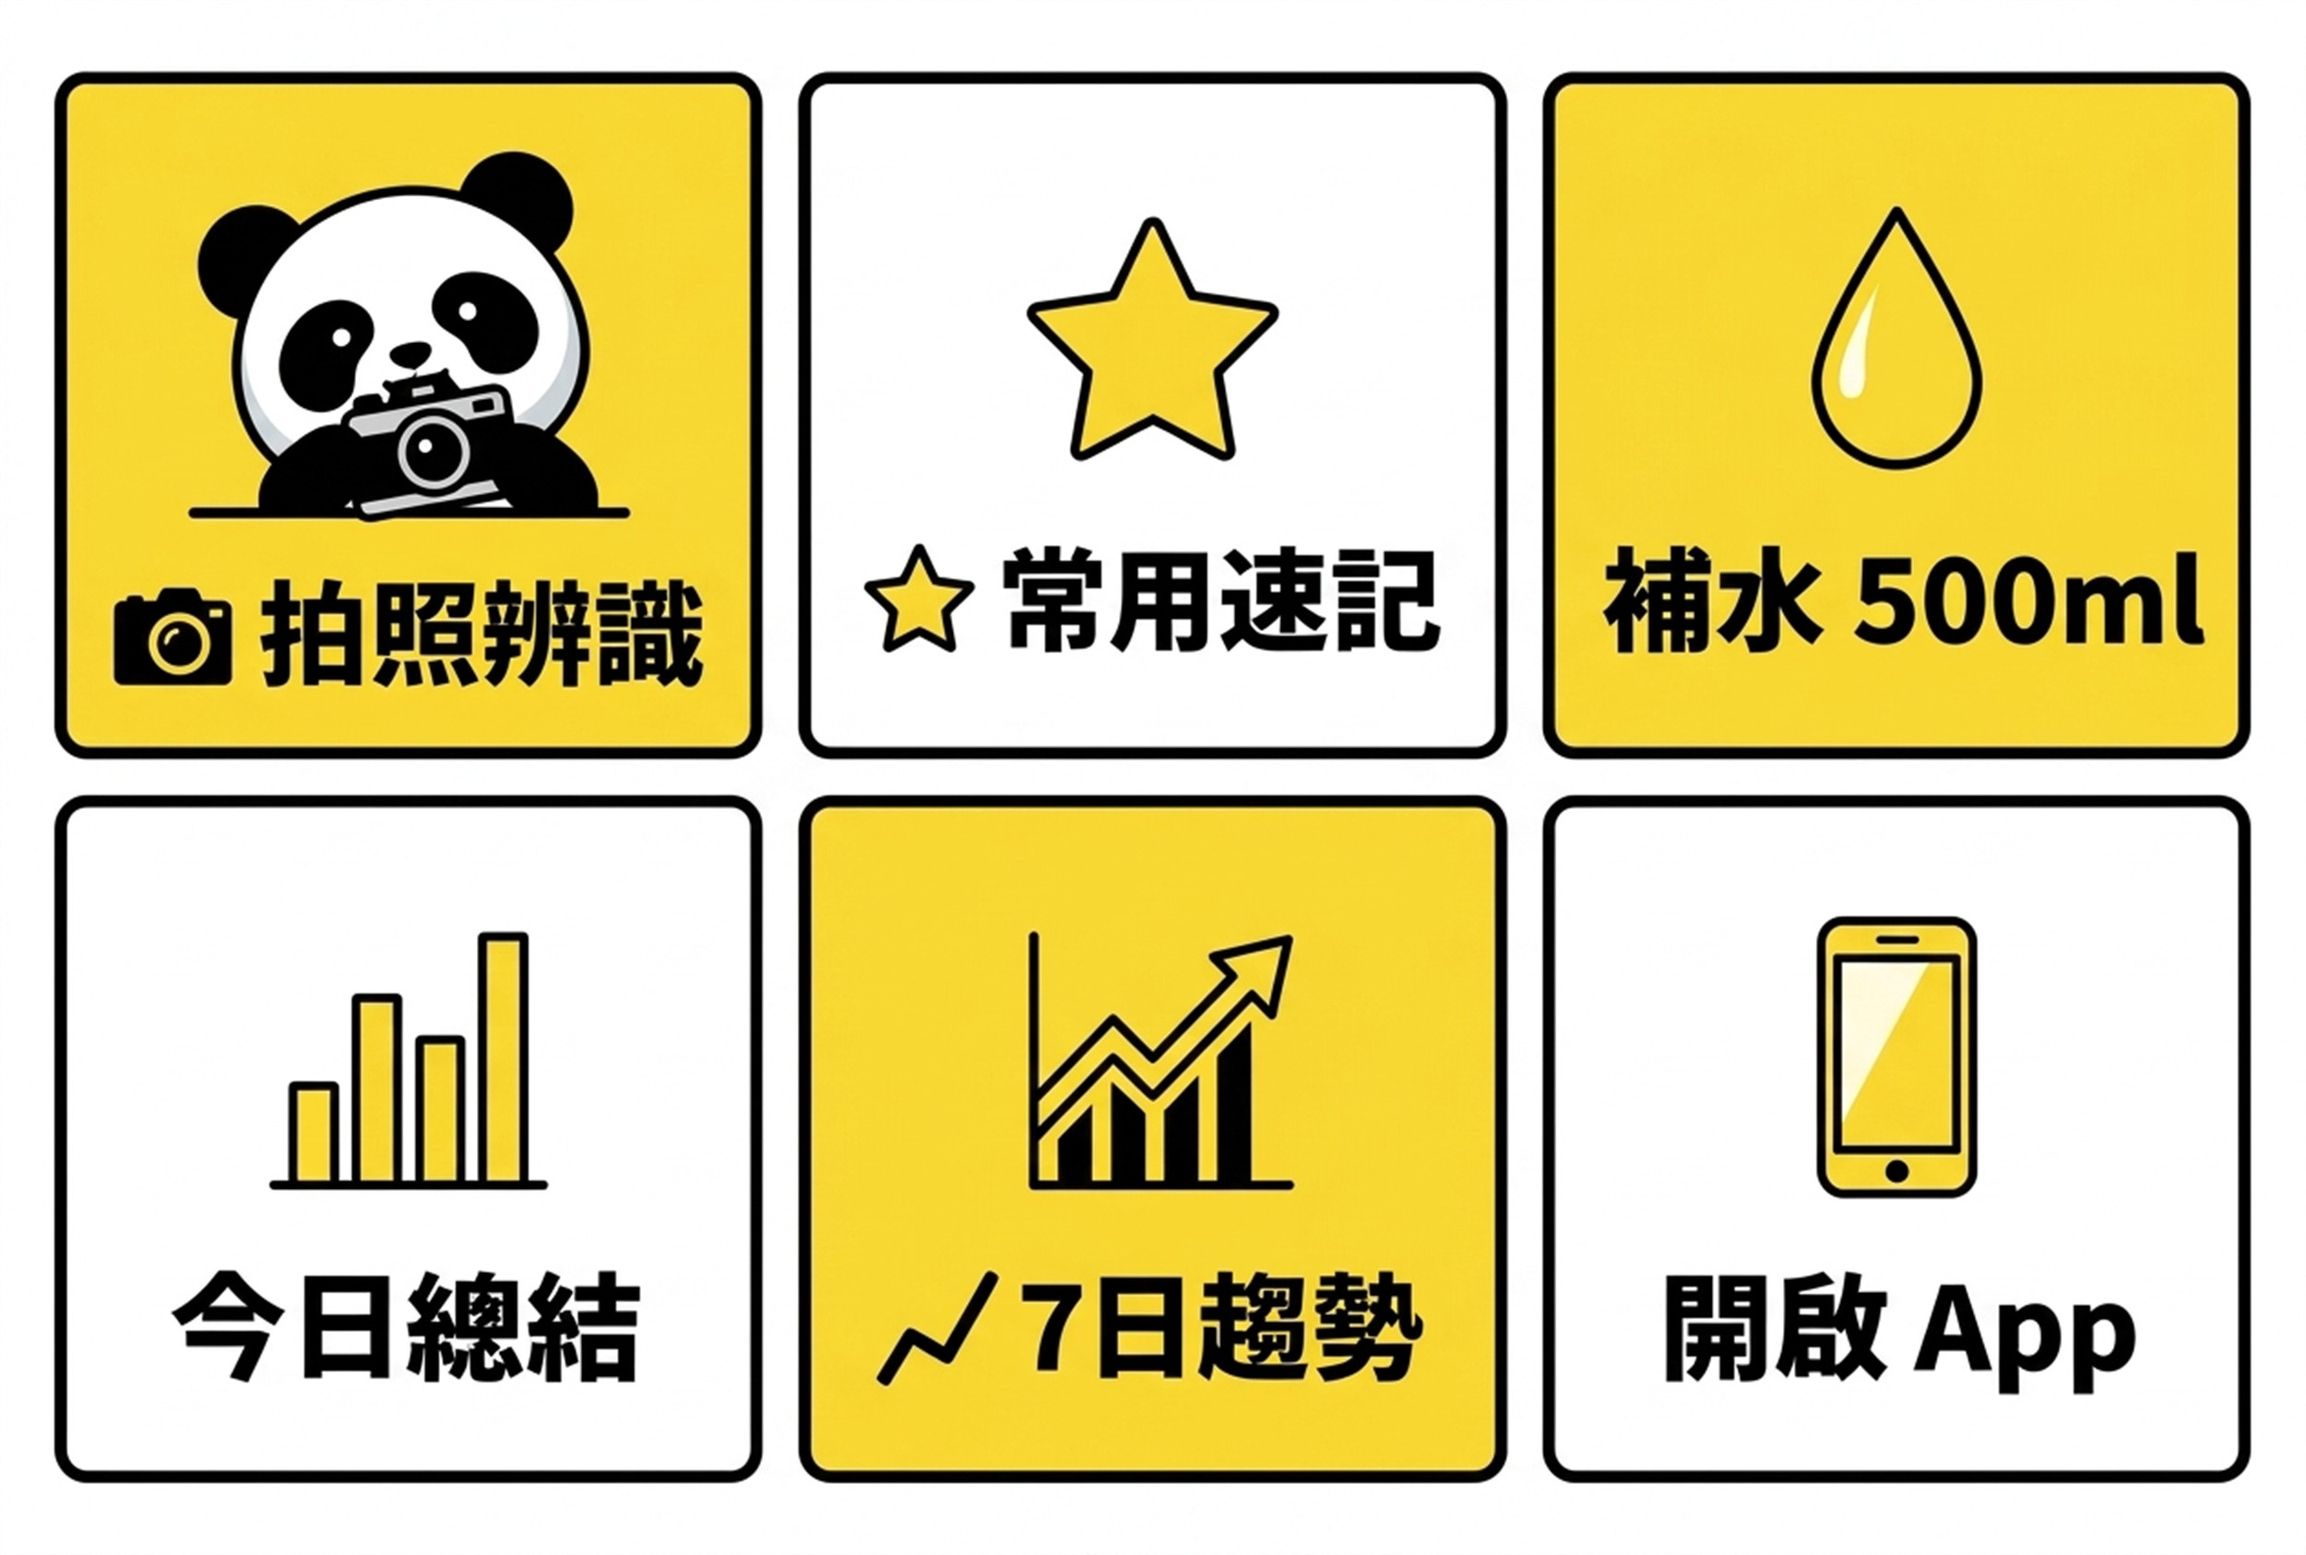
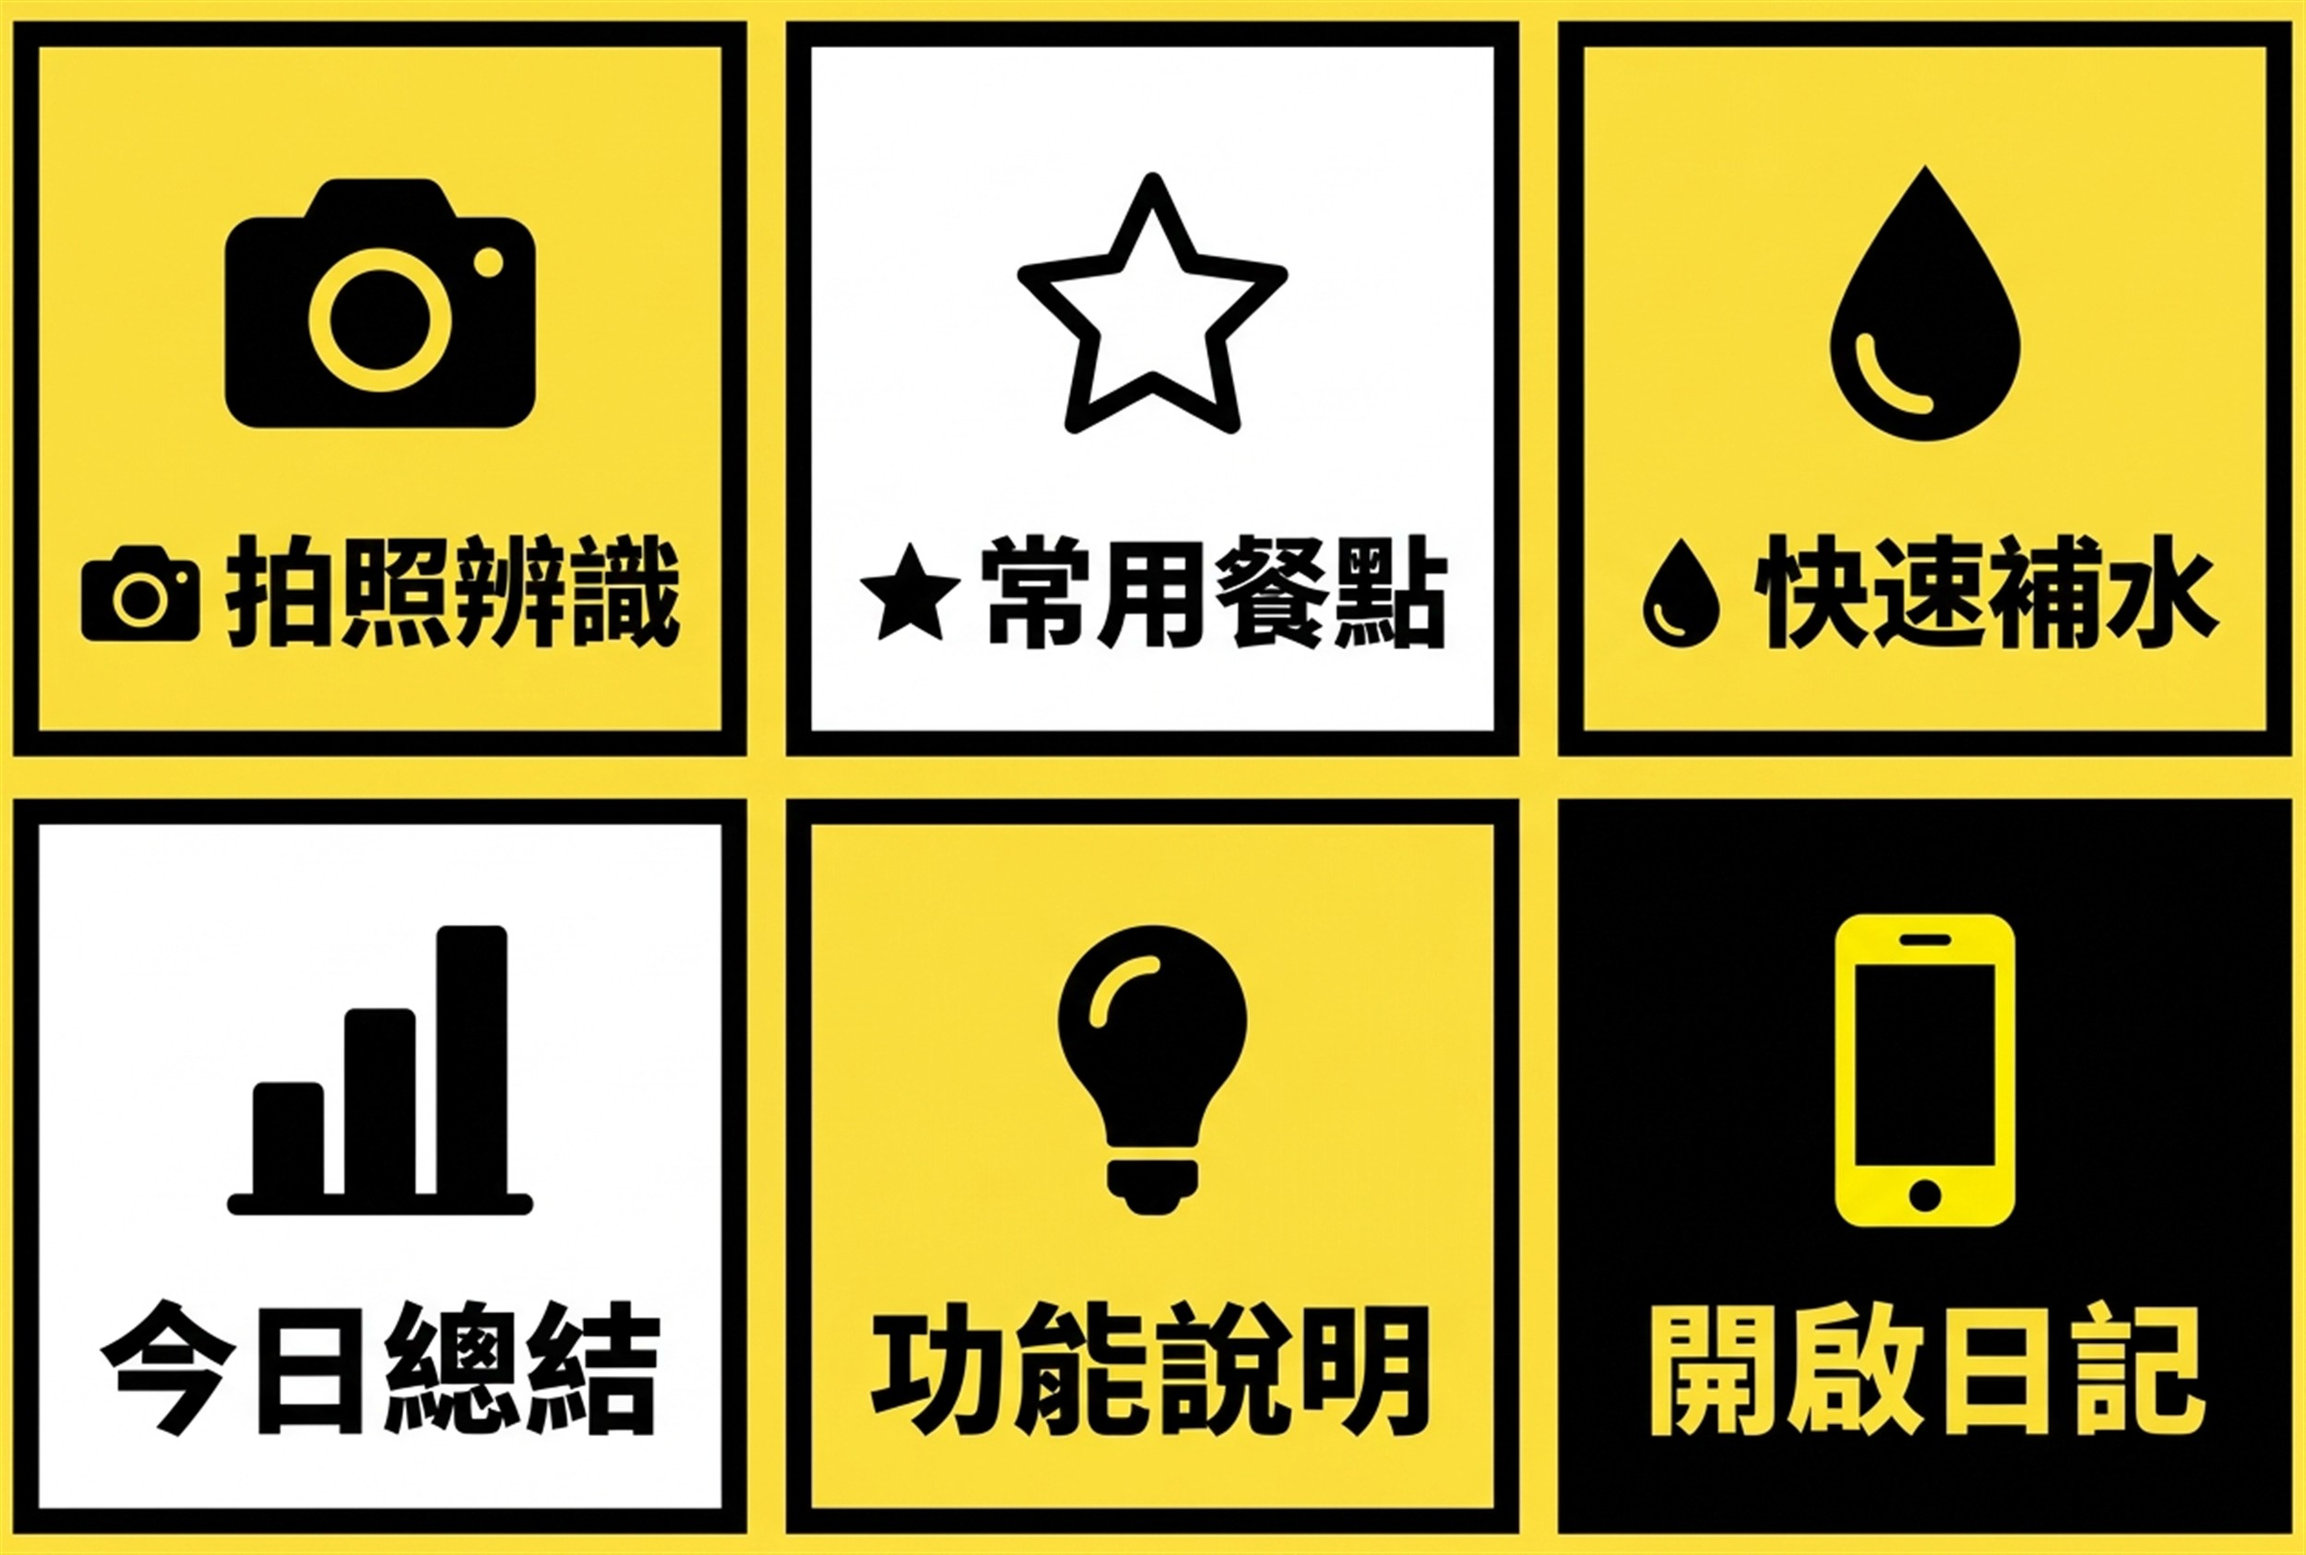
feat(ux): place favorites at front of quick reply, slim down meal card, and update rich menu to v3.1.10

diff --git a/gas/Code.js b/gas/Code.js
@@ -2359,34 +2359,26 @@ function attachQuickReply(message, userId, props) {
   if (!userId || !props) return message;
   try {
     const favorites = getUserFavorites(userId, props);
-    const items = [
-      {
-        type: "action",
-        action: {
-          type: "postback",
-          label: "💧 喝水 500ml",
-          data: JSON.stringify({ action: 'quickWater', amount: 500 }),
-          displayText: "💧 喝水 500ml"
-        }
-      },
-      {
-        type: "action",
-        action: {
-          type: "postback",
-          label: "💧 喝水 250ml",
-          data: JSON.stringify({ action: 'quickWater', amount: 250 }),
-          displayText: "💧 喝水 250ml"
-        }
-      }
-    ];
+    const items = [];
 
+    // 🌟 1. 飲控人最常用：⭐ 常用餐點永遠擺在第一顆最前面！
+    items.push({
+      type: "action",
+      action: {
+        type: "message",
+        label: "⭐ 常用餐點",
+        text: "常用"
+      }
+    });
+
+    // 🌟 2. 若用戶有存常用餐點，直接奉上前 3~4 顆一鍵記帳膠囊 (0秒入帳)！
     if (favorites && favorites.length > 0) {
-      favorites.slice(0, 6).forEach(fav => {
+      favorites.slice(0, 4).forEach(fav => {
         items.push({
           type: "action",
           action: {
             type: "postback",
-            label: `⭐ ${(fav.dish_name || '常用').slice(0, 12)}`,
+            label: `⭐ ${(fav.dish_name || '常用').slice(0, 8)}`,
             data: JSON.stringify({
               action: 'quickLogFavorite',
               name: encodeURIComponent(fav.dish_name),
@@ -2400,21 +2392,47 @@ function attachQuickReply(message, userId, props) {
       });
     }
 
+    // 💧 3. 補水打卡
     items.push({
       type: "action",
       action: {
-        type: "message",
-        label: "⭐ 常用輪播",
-        text: "常用"
+        type: "postback",
+        label: "💧 喝水 500ml",
+        data: JSON.stringify({ action: 'quickWater', amount: 500 }),
+        displayText: "💧 喝水 500ml"
       }
     });
 
+    // 📊 4. 今日總結
     items.push({
       type: "action",
       action: {
         type: "message",
-        label: "📊 今日進度",
+        label: "📊 今日總結",
         text: "今日"
+      }
+    });
+
+    // 📅 5. 查歷史日期 (原生滾輪)
+    items.push({
+      type: "action",
+      action: {
+        type: "datetimepicker",
+        label: "📅 查日期",
+        data: JSON.stringify({ action: 'pickDate' }),
+        mode: "date",
+        initial: getTodayDateString(),
+        max: getTodayDateString()
+      }
+    });
+
+    // 💡 6. 全部功能說明
+    items.push({
+      type: "action",
+      action: {
+        type: "message",
+        label: "💡 全部功能",
+        text: "說明"
       }
     });
 
@@ -6267,7 +6285,7 @@ function setupNativeCameraRichMenu(channelAccessToken, liffId, props) {
       },
       {
         bounds: { x: 833, y: 843, width: 834, height: 843 },
-        action: { type: "message", text: "週報" }
+        action: { type: "message", text: "說明" }
       },
       {
         bounds: { x: 1667, y: 843, width: 833, height: 843 },

diff --git a/dist/index.html b/dist/index.html
@@ -27,7 +27,7 @@
   <link
     href="https://fonts.googleapis.com/css2?family=Inter:wght@400;700;900&family=Outfit:wght@400;700;900&family=JetBrains+Mono:wght@400;700&family=Zen+Maru+Gothic:wght@400;500;700&family=Noto+Sans+TC:wght@400;500;700&display=swap"
     rel="stylesheet">
-  <script type="module" crossorigin src="/daily-diet/assets/index-BD-Hl42G.js"></script>
+  <script type="module" crossorigin src="/daily-diet/assets/index-lxxu2NbM.js"></script>
   <link rel="modulepreload" crossorigin href="/daily-diet/assets/vendor-motion-B6G5eJcq.js">
   <link rel="modulepreload" crossorigin href="/daily-diet/assets/vendor-charts-B_zW595f.js">
   <link rel="modulepreload" crossorigin href="/daily-diet/assets/vendor-icons-B8gW5QuP.js">

diff --git a/src/lib/constants.js b/src/lib/constants.js
@@ -3,5 +3,5 @@ import pkg from '../../package.json';
 export const ANALYSIS_DURATION_SECONDS = 15; // 🕒 Adjusted to 15s based on actual generation time
 export const IMAGE_MAX_DIMENSION = 1024;    // 📸 Back to 1024px to read labels clearly
 export const IMAGE_QUALITY = 0.8;           // 💎 Higher quality
-export const APP_VERSION = '3.1.9';         // 🏷 Application Version (from package.json)
+export const APP_VERSION = '3.1.10';         // 🏷 Application Version (from package.json)
 export const ENABLE_520_THEME = false;      // 💖 520 Festive decorations toggle
